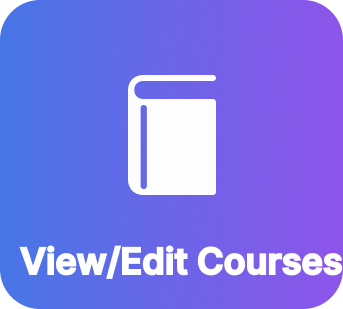
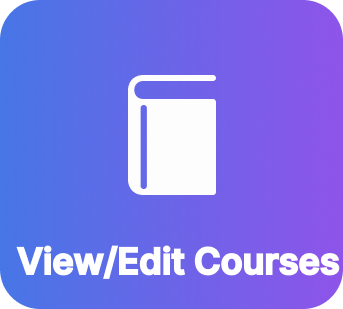
added grade upload function, edited some images

Changed region(s): [[0.0292, 0.7864, 1.0, 0.9029]]

diff --git a/client/src/pages/teacher/GradeUpload.jsx b/client/src/pages/teacher/GradeUpload.jsx
@@ -1,0 +1,72 @@
+import React, { useContext } from 'react';
+import { Link } from 'react-router-dom';
+import Search from './image/Search.png'
+import ReturnHome from './image/ReturnHome.png'
+import axios from "axios";
+import { useState } from 'react';
+import { AuthContext } from '../../context/authContext';
+
+const GradeUpload = () => {
+    const grades = ["select", "A", "A-", "B+", "B", "B-", "C+", "C", "C-", "D+", "D", "F"];
+    const [uid, setUid] = useState('');
+    const [cid, setCid] = useState('');
+    const [grade, setGrade] = useState(grades[0]);
+    const [response, setResponse] = useState(null);
+    const [err, setError] = useState(null);
+
+    const handleGradeUpload = async () => {
+        try {
+          const response = await axios.put("/enrollments/GradeUpload", {uid: uid, cid: cid, grade: grade});
+          setResponse(response.data);
+          setError(null);
+        } catch (err) {
+          setError(err.response.data);
+          setResponse(null);
+        }
+    }
+
+    return (
+        <div className='GradeUpload'>
+            <div className='navBar' style={{ width: '200px', backgroundColor: '#DFE2F3', height: '100vh', position: 'fixed', left: 0 }}>
+              <h1 className='menu' style={{ display: 'flex', justifyContent: 'center' }}>Menu</h1>
+              <ul style={{ listStyleType: 'none', padding: 0 }}>
+                  <li style={{ padding: '10px', display: 'flex', alignItems: 'center' }}>
+                      <div>
+                      <img src={Search} alt="Search" style={{ marginRight: '10px' }} />
+                      </div>
+                      <Link>Upload Grade</Link>
+                  </li>
+
+                  <li style={{ padding: '10px', display: 'flex', alignItems: 'center' }}>
+                      <div>
+                      <img src={ReturnHome} alt="Return" style={{ marginRight: '10px' }} />
+                      </div>
+                      <Link to="/teacher/home">Return</Link>
+                  </li>
+              </ul>
+            </div>
+
+            <div style={{ marginLeft: '220px' }}>
+                <h1>Upload Grade</h1>
+                <p>Input student ID: </p>
+                <input placeholder="Student ID" type="text" onChange={(event) => setUid(event.target.value)}/>
+                <p style={{ marginTop: '20px' }}>Input course ID: </p>
+                <input placeholder="Course ID" type="text" onChange={(event) => setCid(event.target.value)}/>
+                <p style={{ marginTop: '20px' }}>Select Grade: </p>
+                <select
+                    onChange={(event) => setGrade(event.target.value)}>
+                    {grades.map((grade) => (
+                        <option value={grade} key={grade}>
+                        {grade}
+                        </option>
+                    ))}
+                </select>
+                <button onClick={handleGradeUpload} style={{marginLeft: '8px', marginBottom: '20px'}}>Upload</button>
+                {response && <p className="response">{response}</p>}
+                {err && <p className="err">{err}</p>}
+            </div>
+        </div>
+    );
+};
+
+export default GradeUpload;

diff --git a/api/controllers/enrollments.js b/api/controllers/enrollments.js
@@ -1,0 +1,60 @@
+import { db } from "../db.js";
+
+export const getEnrollment = (req, res) => {
+    const q = "SELECT C.cid,name,TIME_FORMAT(startTime, '%H:%i') AS startTime,TIME_FORMAT(endTime, '%H:%i')"+
+    " AS endTime,place,department,instructor,capacity,current_capacity FROM courses C JOIN enrollment E on C.cid=E.cid"
+    +" WHERE uid = ?";
+  
+    db.query(q, [req.params.uid], (err, data) => {
+      
+      if (err) return res.status(500).json(err);
+      console.log(data);
+      return res.status(200).json(data);//array of objects
+    });
+};
+
+export const dropEnrollment = (req, res) => {
+    const q = "DELETE FROM enrollment WHERE uid = ? AND cid = ?";
+
+    db.query(q, [req.body.uid, req.body.cid], (err, data) => {
+      if (err) return res.status(500).json(err);
+    });
+
+    const q2 = "UPDATE courses SET current_capacity = current_capacity-1 WHERE cid = ?";
+    db.query(q2, [req.body.cid], (err, data) => {
+        if (err) return res.status(500).json(err);
+        return res.status(200).json("Drop successfully.");
+    })
+};
+
+export const GradeUpload = (req, res) => {
+  if (req.body.grade === "select") return res.status(409).json("Please select a grade.");
+
+  const q = "SELECT * FROM enrollment WHERE uid = ? AND cid = ?";
+
+  db.query(q, [req.body.uid, req.body.cid], (err, data) => {
+    if (err) return res.status(500).json(err);
+    if (!data.length) return res.status(409).json("Wrong student ID or course ID.");
+
+    let point;
+    if (req.body.grade === "A") point = 4.0
+    else if (req.body.grade === "A-") point = 3.70
+    else if (req.body.grade === "B+") point = 3.30
+    else if (req.body.grade === "B") point = 3.00
+    else if (req.body.grade === "B-") point = 2.70
+    else if (req.body.grade === "C+") point = 2.30
+    else if (req.body.grade === "C") point = 2.00
+    else if (req.body.grade === "C-") point = 1.70
+    else if (req.body.grade === "D+") point = 1.30
+    else if (req.body.grade === "D") point = 1.00
+    else if (req.body.grade === "F") point = 0.00
+
+    const q = "UPDATE enrollment SET grade = ?, point = ? WHERE uid = ? AND cid = ?";
+
+    db.query(q, [req.body.grade, point, req.body.uid, req.body.cid], (err, data) => {
+      if (err) console.log(err)
+      if (err) return res.status(500).json(err);
+      return res.status(200).json("Grade uploaded successfully.");
+    });
+  });
+};

diff --git a/client/src/pages/teacher/Home.jsx b/client/src/pages/teacher/Home.jsx
@@ -7,12 +7,12 @@ import CourseTeaching from './image/CourseTeaching.png';
 import Logout from './image/Logout.png';
 import SpecialAddDrop from './image/SpecialAddDrop.png';
 import CourseUpdate from './image/CourseUpdate.png';
-import GradeUpdate from './image/GradeUpdate.png';
+import GradeUpload from './image/GradeUpload.png';
 import { Link, useNavigate } from "react-router-dom";
 
 const TeacherHome = () => {
     const images = [
-        CourseUpdate, GradeUpdate, ChangePassword, SpecialAddDrop, BugReport, ClassroomBooking, CampusMap, CourseTeaching
+        CourseUpdate, GradeUpload, ChangePassword, SpecialAddDrop, BugReport, ClassroomBooking, CampusMap, CourseTeaching
         , Logout
     ];
 
@@ -27,7 +27,7 @@ const TeacherHome = () => {
             break;
           case 1:
             // navigate to GradeUpdate
-            
+            navigate("/teacher/GradeUpload");
             break;
           case 2:
             // navigate to ChangePassword

diff --git a/client/src/style.scss b/client/src/style.scss
@@ -82,11 +82,11 @@ $lightPurple: #f2f2fc;
         margin-left: 20px;
       }
 
-      .err{
+      .err {
         color: red;
       }
 
-      .response{
+      .response {
         color: red;
       }
     }
@@ -103,12 +103,40 @@ $lightPurple: #f2f2fc;
         margin-left: 20px;
       }
 
-      .err{
+      .err {
         color: red;
       }
 
-      .response{
+      .response {
         color: red;
+      }
+    }
+
+    //Grade upload
+    .GradeUpload {
+      background-color: $lightPurple;
+      height: 100vh;
+
+      h1:not(.menu) {
+        font-size: 70px;
+        color: #4147d5;
+        margin-bottom: 20px;
+        margin-left: 20px;
+      }
+
+      .err {
+        color: red;
+      }
+
+      .response {
+        color: red;
+      }
+    }
+
+    //Bug report
+    .bug-report-container {
+      button {
+        margin-top: 20px;
       }
     }
   }

diff --git a/client/src/App.js b/client/src/App.js
@@ -12,7 +12,9 @@ import StudentHome from "./pages/student/Home";
 import CourseBrowsing from "./pages/student/CourseBrowsing";
 import Profile from "./pages/student/Profile";
 import TeacherHome from "./pages/teacher/Home";
+import GradeUpload from "./pages/teacher/GradeUpload";
 import AdminHome from "./pages/admin/Home";
+import Timetable from "./pages/tt";
 import "./style.scss"
 
 const router = createBrowserRouter([
@@ -31,6 +33,10 @@ const router = createBrowserRouter([
   {
     path: "/teacher/home",
     element: <TeacherHome />,
+  },
+  {
+    path: "/teacher/GradeUpload",
+    element: <GradeUpload />,
   },
   {
     path: "/admin/home",

diff --git a/api/index.js b/api/index.js
@@ -2,7 +2,7 @@ import express from "express"
 import authRoutes from "./routes/auth.js"
 import userRoutes from "./routes/users.js"
 import courseRoutes from "./routes/courses.js"
-import enrollmentRoutes from "./routes/enrollment.js"
+import enrollmentRoutes from "./routes/enrollments.js"
 
 const app = express()
 
@@ -10,7 +10,7 @@ app.use(express.json())
 app.use("/api/auth", authRoutes)
 app.use("/api/users", userRoutes)
 app.use("/api/courses", courseRoutes)
-app.use("/api/enrollment", enrollmentRoutes)
+app.use("/api/enrollments", enrollmentRoutes)
 
 app.listen(8800, ()=>{
     console.log("Connected!")

diff --git a/api/routes/enrollments.js b/api/routes/enrollments.js
@@ -1,9 +1,10 @@
 import express from "express";
-import { getEnrollment, dropEnrollment } from "../controllers/enrollment.js"
+import { getEnrollment, dropEnrollment, GradeUpload } from "../controllers/enrollments.js";
 
 const router = express.Router();
 
 router.get("/:uid", getEnrollment);
 router.post("/drop", dropEnrollment);
+router.put("/GradeUpload", GradeUpload);
 
 export default router;

diff --git a/client/src/pages/common/BugReport.jsx b/client/src/pages/common/BugReport.jsx
@@ -40,7 +40,7 @@ function BugReport({ user }) {
         ))}
       </ul>
       <span>
-      <Link onClick={handleGoBack}>Go back</Link>{/*path in App.js*/} 
+      <button onClick={handleGoBack}>Go back</button>{/*path in App.js*/} 
       </span>
     </div>
   );
